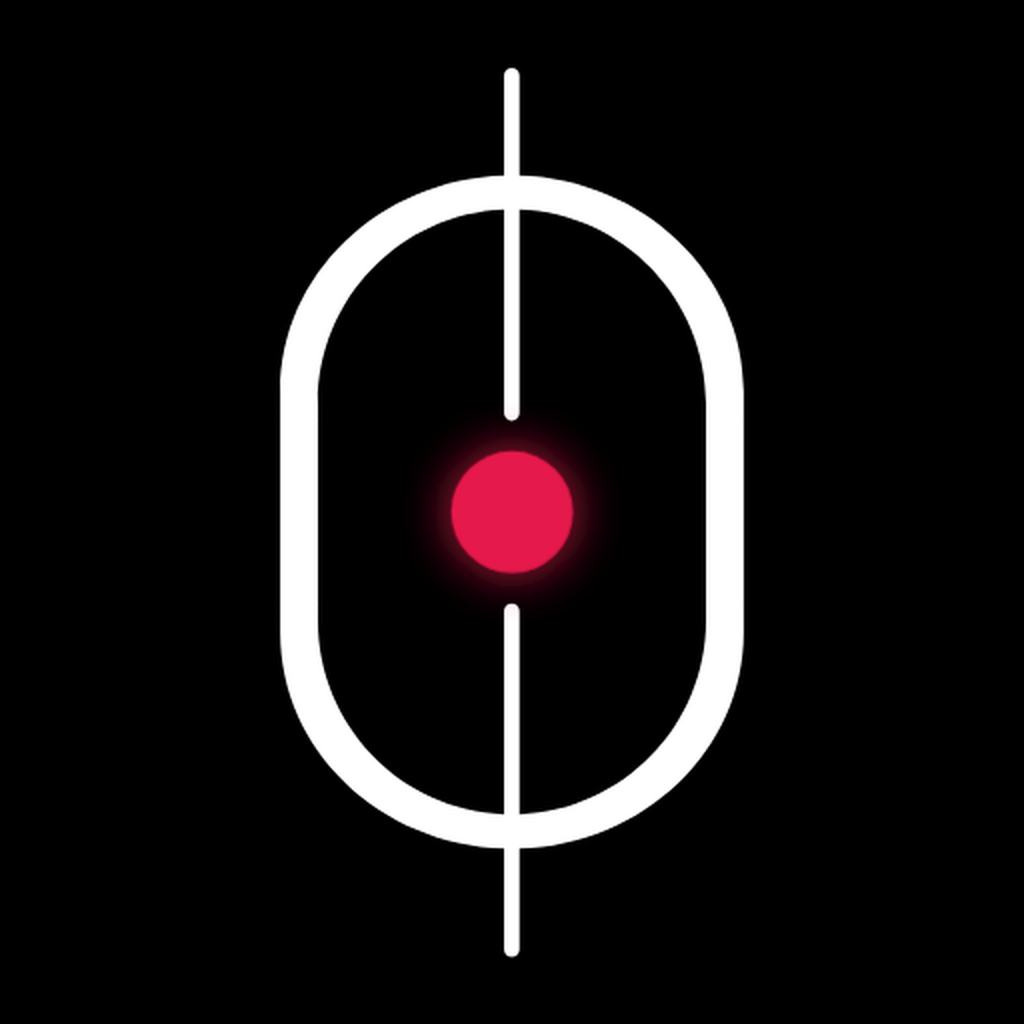
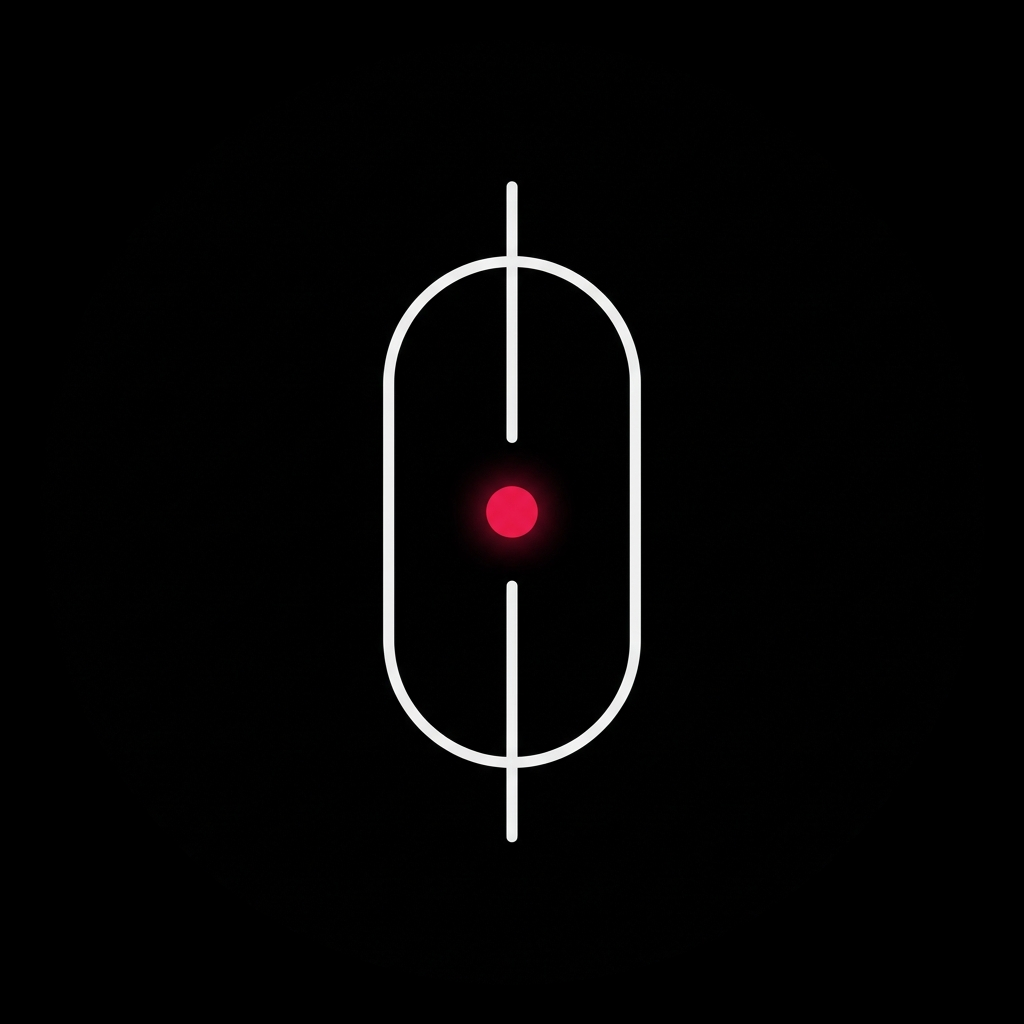
Íconos generados con Google Flow: ideas (cerebro), descargar, canciones, ajustes e ícono de la app
Claude-Session: https://claude.ai/code/session_01C7D9KkoPHTdSwYEpchdraq

Changed region(s): [[0.25, 0.0625, 0.75, 0.9375]]

diff --git a/tools/flow_icons.py b/tools/flow_icons.py
@@ -1,0 +1,43 @@
+"""Convierte los íconos generados con Google Flow (fondo negro) en PNG transparentes,
+versión activa (blanco + rojo) e inactiva (gris + rojo oscuro) para la app.
+Uso: python tools/flow_icons.py"""
+import pathlib
+import numpy as np
+from PIL import Image
+
+ROOT = pathlib.Path(__file__).resolve().parents[1]
+SRC, OUT = ROOT / "docs/brand/icons/flow", ROOT / "src/assets/icons"
+VARIANTS = {"": ((245, 245, 245), (229, 25, 75)), "_off": ((138, 138, 138), (122, 18, 41))}
+
+
+def convert(path, name, size=144):
+    a = np.asarray(Image.open(path).convert("RGB")).astype(float) / 255
+    r, g, b = a[..., 0], a[..., 1], a[..., 2]
+    white = np.clip((np.minimum(np.minimum(r, g), b) - .12) / .7, 0, 1)
+    red = np.clip((r - np.maximum(g, b) - .15) / .5, 0, 1)
+    alpha = np.maximum(white, red)
+    ys, xs = np.nonzero(alpha > .2)
+    y0, y1, x0, x1 = ys.min(), ys.max(), xs.min(), xs.max()
+    side = int(max(y1 - y0, x1 - x0) * 1.08)
+    cy, cx = (y0 + y1) // 2, (x0 + x1) // 2
+    box = (cx - side // 2, cy - side // 2, cx - side // 2 + side, cy - side // 2 + side)
+    is_red = red > white
+    for suffix, (wc, rc) in VARIANTS.items():
+        rgb = np.where(is_red[..., None], np.array(rc), np.array(wc))
+        img = np.dstack([rgb, alpha * 255]).astype(np.uint8)
+        im = Image.fromarray(img, "RGBA").crop(box).resize((size, size), Image.LANCZOS)
+        im.save(OUT / f"{name}{suffix}.png")
+
+
+for n in ("ideas", "descargar", "canciones", "gear"):
+    convert(SRC / f"{n}.jpg", n)
+
+# ícono de la app: fondo negro completo (se quita el borde blanco del círculo)
+im = Image.open(SRC / "app.jpg").convert("RGB")
+w, h = im.size
+mask = Image.new("L", im.size, 0)
+from PIL import ImageDraw
+ImageDraw.Draw(mask).ellipse((40, 40, w - 40, h - 40), fill=255)
+black = Image.new("RGB", im.size, (0, 0, 0))
+Image.composite(im, black, mask).resize((1024, 1024), Image.LANCZOS).save(ROOT / "src/assets/icon.png")
+print("ok")
